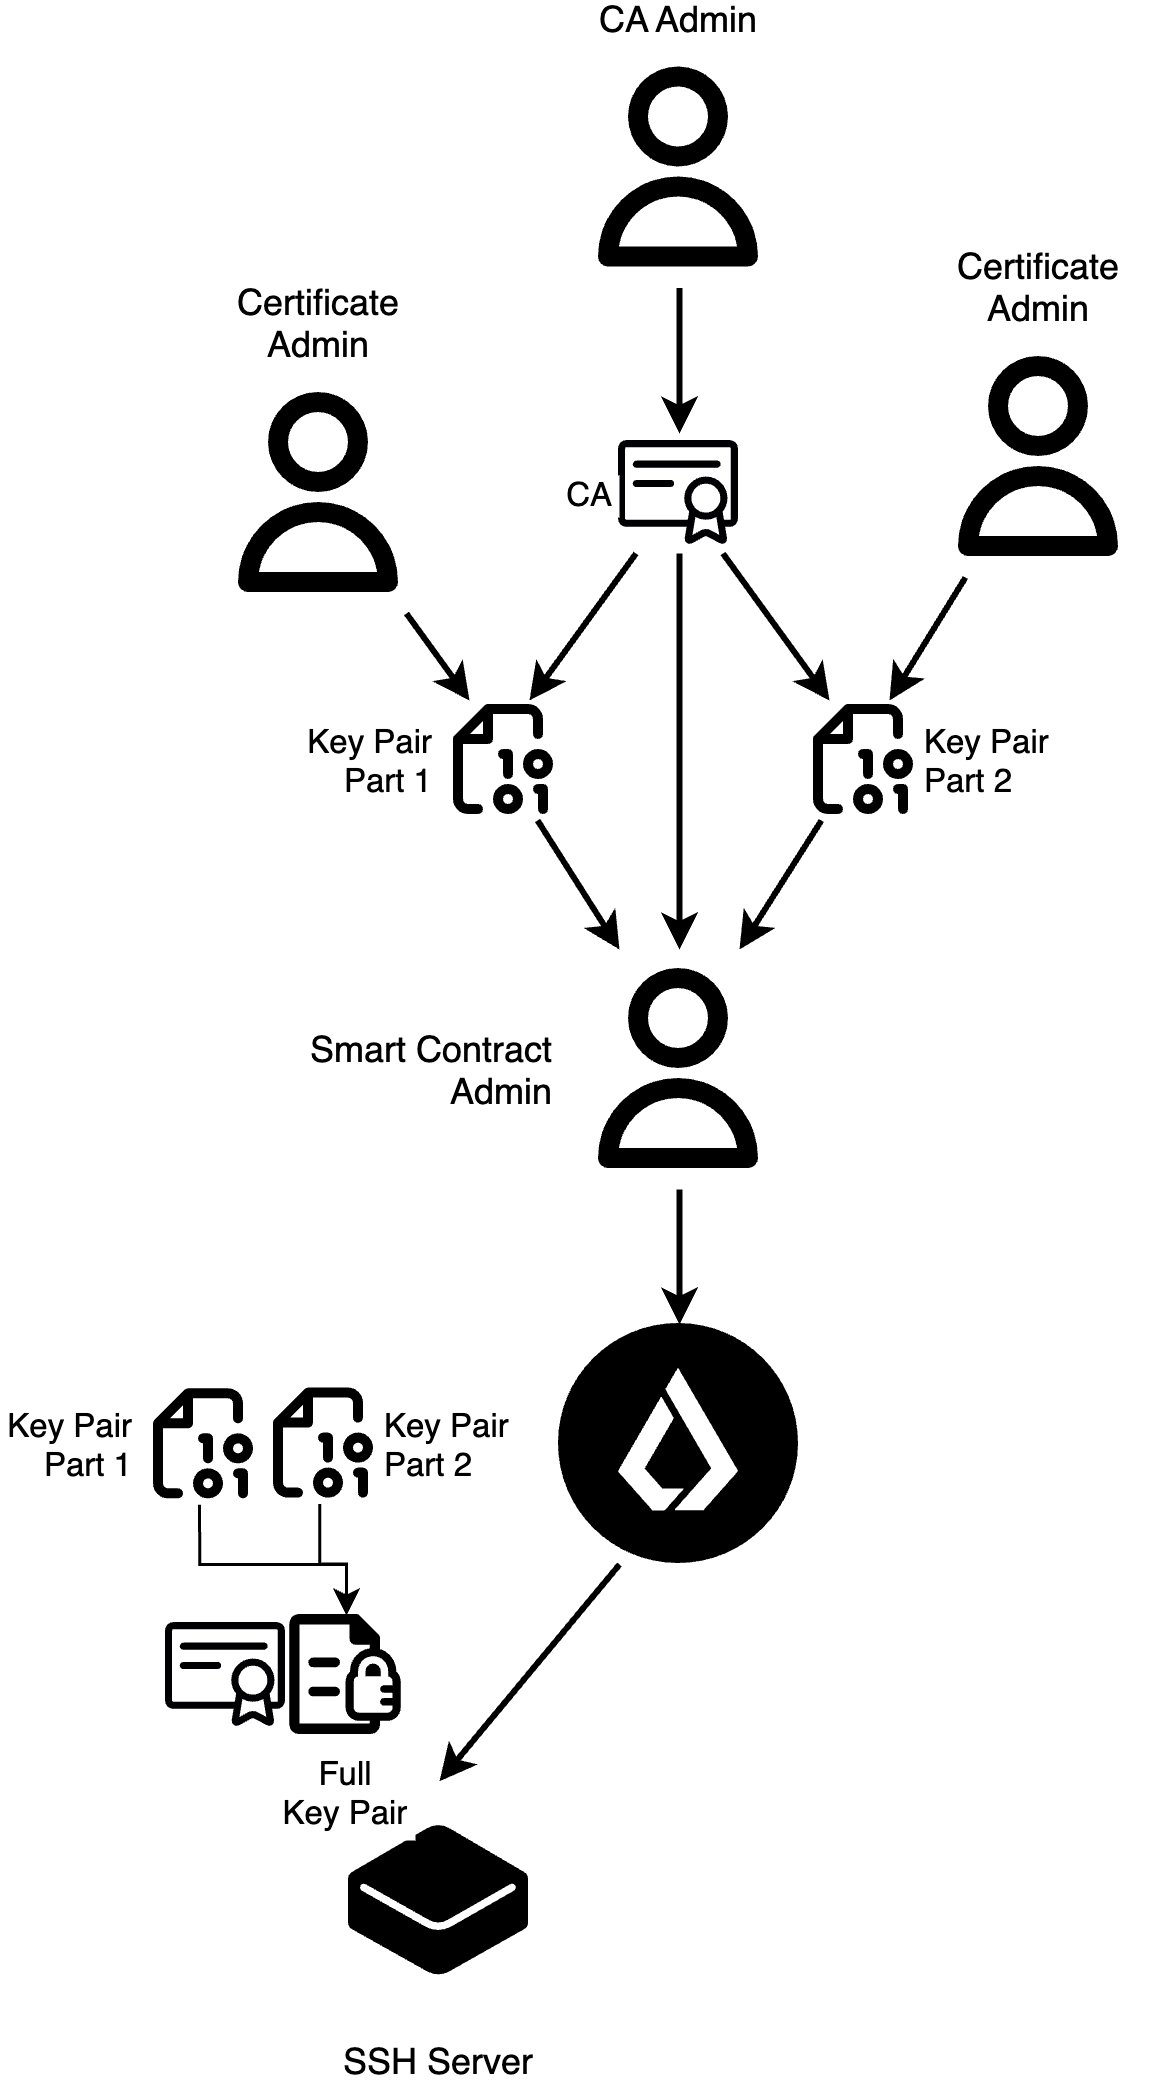
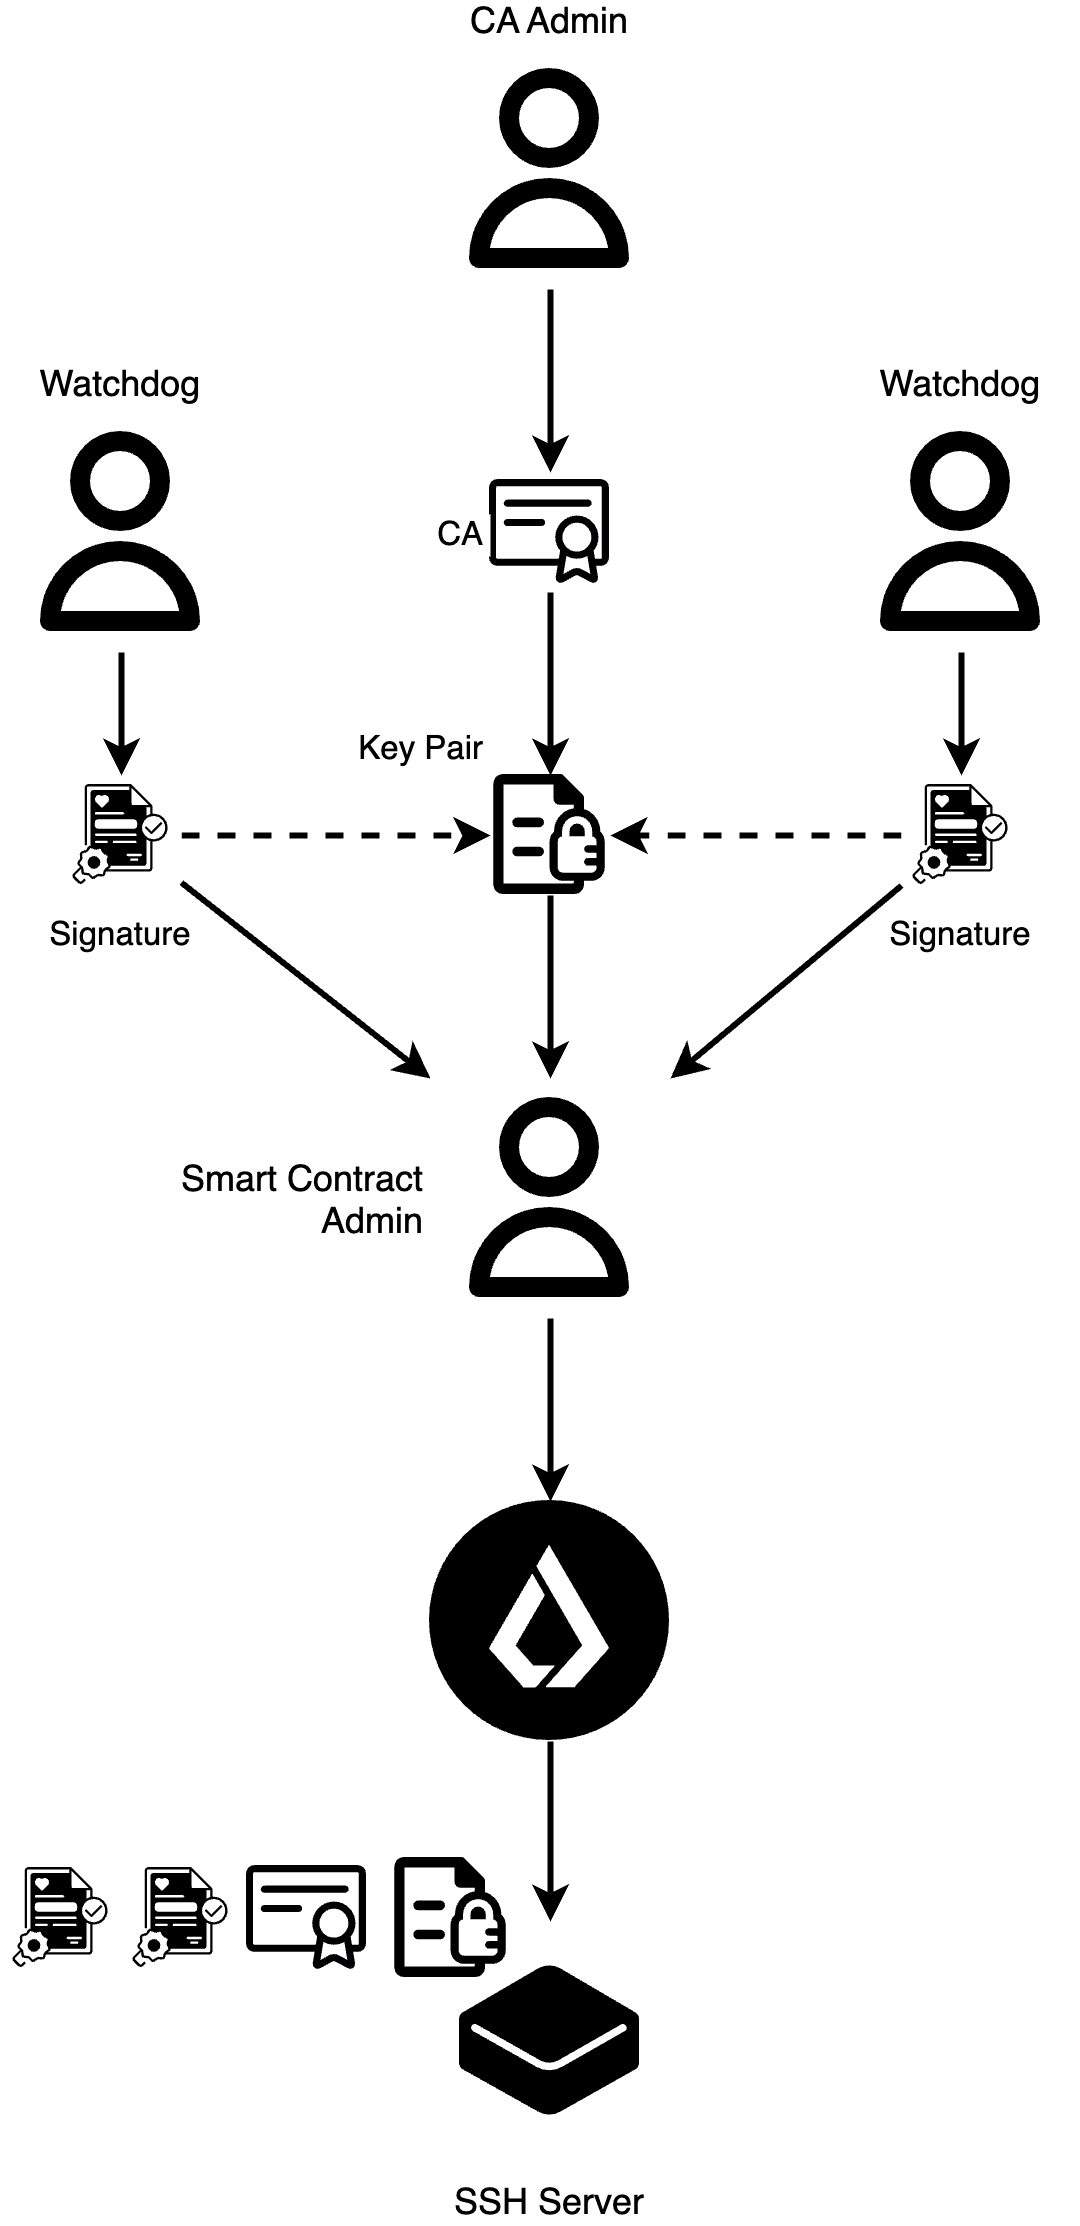
Describe multisig chain of trust model

diff --git a/docs/chain_of_trust.md b/docs/chain_of_trust.md
@@ -34,16 +34,24 @@ First admin (CA Admin) is responsible for generation new Certificate Authorities
 
 Second admin (Smart Contract Admin) is responsible for interacting with smart contract. This admin has private key of the wallet. SSH server and SSH client trust this admin public key when listen for new events from the smart contract.
 
-With two admins models we can achieve distributed responsibility. If one of the admins start to do suspicious actions, second admin can refuse their action and stop violation.
+With two admins model we can achieve distributed responsibility. If one of the admins start to do suspicious actions, second admin can refuse their action and stop violation.
 
 <p align="center">
   <img src="./images/chain_of_trust_multi_admin.png" alt="general" width="400"/>
 </p>
 
----
+### Multisig
+
+In this chain of trust model, organization has at least three separate admins.
+
+First type of admins and third type are the same as in multi-admin chain of trust model.
+
+But second type of admin (Watchdog) is a new type. They are responsible for signing key pairs from CA Admin using their own private keys.
+
+SSH server after downloading new CA and new SSH key pair, is required to check that key pair is not only signed by CA, but is also signed by all watchdogs. SSH server should have a list of watchdog's public keys to check these signatures (alternative solution is to claim such list using smart contract and it should be Smart Contract Admin responsibility).
 
 <p align="center">
   <img src="./images/chain_of_trust_multisig.png" alt="general" width="400"/>
 </p>
 
----
+With such chain of trust distribution model we can achieve much more responsibility distribution and make a change of suspicious activity much lower.

diff --git a/README.md b/README.md
@@ -5,7 +5,7 @@ Decentralized Public Key Infrastructure.
 - [Here you can check sequence diagram to understand](./docs/render/Flow.png) **how it works**.
 - [Chain of trust description](./docs/chain_of_trust.md) **and how it works**.
 
-<hr>
+<br>
 
 <p align="center">
   <img src="./docs/images/general.png" alt="general" width="400"/>
